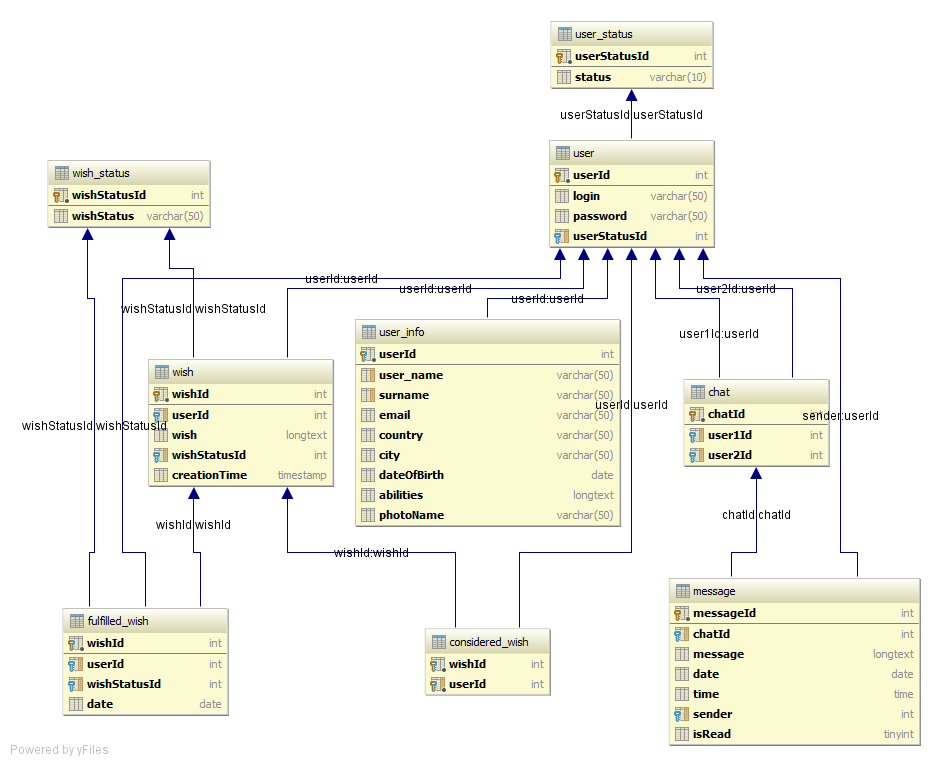
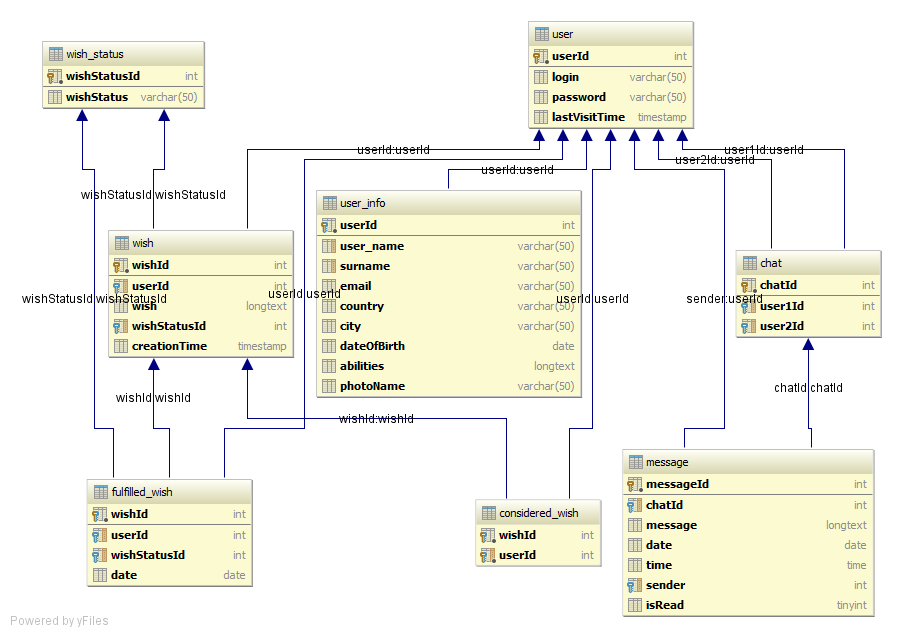
Add defining of online status

diff --git a/web/js/script.js b/web/js/script.js
@@ -514,6 +514,14 @@ function displayWishesTable(currentUserId) {
 
 }
 
+function updateTime() {
+    setInterval(function() {
+        var xmlhttp = new XMLHttpRequest();
+        xmlhttp.open("POST", "updateVisitTime");
+        xmlhttp.send();
+    }, 600000);
+}
+
 
 
 

diff --git a/web/css/style.css b/web/css/style.css
@@ -399,7 +399,6 @@ nav.menu li a.messages {
     font-size: 18px;
 }
 .abilitiesBlock {
-    float: left;
     width: 100%;
     margin-top: -20px;
 }

diff --git a/src/com/shooting_stars/project/dao/UserDAO.java b/src/com/shooting_stars/project/dao/UserDAO.java
@@ -4,13 +4,13 @@ import com.shooting_stars.project.entity.User;
 import com.shooting_stars.project.entity.UserInfo;
 import com.shooting_stars.project.entity.UserToBeRegistered;
 import com.shooting_stars.project.exception.DAOException;
-import java.sql.Connection;
-import java.sql.PreparedStatement;
-import java.sql.ResultSet;
-import java.sql.SQLException;
+
+import java.sql.*;
 import java.util.ArrayList;
 
 public class UserDAO extends AbstractDAO {
+    public static final String SQL_UPDATE_VISIT_TIME = "UPDATE user SET lastVisitTime = ? WHERE userId = ?";
+    public static final String SQL_SELECT_VISIT_TIME = "SELECT lastVisitTime FROM user WHERE userId = ?";
     public static final String SQL_FIND_USER = "SELECT userId FROM user WHERE login = ? and password = ?";
     public static final String SQL_INSERT_USER = "INSERT INTO user (login, password) VALUES (?,?)";
     public static final String SQL_INSERT_USER_INFO =
@@ -18,8 +18,6 @@ public class UserDAO extends AbstractDAO {
     public static final String SQL_CHECK_LOGIN_EXISTENCE = "SELECT COUNT(login) FROM user WHERE login = ?";
     public static final  String SQL_UPDATE_PHOTO_NAME = "UPDATE user_info SET photoName = ? WHERE userId = ?";
     public static final String SQL_SELECT_USER_INFO = "SELECT * FROM user_info WHERE userId = ?";
-    public static final String SQL_GET_STATUS = "SELECT status FROM user_status JOIN user ON user.userStatusId = user_status.userStatusId WHERE user.userId = ?";
-    public static final String SQL_SET_STATUS = "UPDATE user SET userStatusId = ? WHERE userId = ?";
     public static final String SQL_UPDATE_USER_INFO =
             "UPDATE user_info SET user_name = ?, surname = ?, country = ?, city = ?, dateOfBirth = ? WHERE userId = ?";
     public static final String SQL_SELECT_ABILITIES = "SELECT abilities FROM user_info WHERE userId = ?";
@@ -159,41 +157,6 @@ public class UserDAO extends AbstractDAO {
         return userInfo;
     }
 
-    public String getUserStatus(int userId) throws DAOException {
-        PreparedStatement ps = null;
-        ResultSet rs;
-        String status = "";
-        try {
-            ps = connection.prepareStatement(SQL_GET_STATUS);
-            ps.setInt(1, userId);
-            rs = ps.executeQuery();
-            if(rs.next()) {
-               status = rs.getString(1);
-            }
-        } catch (SQLException e) {
-            throw new DAOException("SQL exception (request or table failed): ", e);
-        }
-        finally {
-            close(ps);
-        }
-        return status;
-    }
-
-    public void setUserStatus(int userId, int userStatusId) throws DAOException {
-        PreparedStatement ps = null;
-        try {
-            ps = connection.prepareStatement(SQL_SET_STATUS);
-            ps.setInt(1, userStatusId);
-            ps.setInt(2, userId);
-            ps.executeUpdate();
-        } catch (SQLException e) {
-            throw new DAOException("SQL exception (request or table failed): ", e);
-        }
-        finally {
-            close(ps);
-        }
-    }
-
     public void updateUserInfo(int userId, UserInfo userInfo) throws DAOException {
         PreparedStatement ps = null;
         try {
@@ -324,6 +287,40 @@ public class UserDAO extends AbstractDAO {
             }
             return email;
 
+        } catch (SQLException e) {
+            throw new DAOException("SQL exception (request or table failed): ", e);
+        }
+        finally {
+            close(ps);
+        }
+    }
+
+    public Timestamp getVisitTime(int userId) throws DAOException {
+        PreparedStatement ps = null;
+        ResultSet rs;
+        Timestamp time = null;
+        try {
+            ps = connection.prepareStatement(SQL_SELECT_VISIT_TIME);
+            ps.setInt(1,userId);
+            rs = ps.executeQuery();
+            if(rs.next()) {
+                time = rs.getTimestamp(1);
+            }
+        } catch (SQLException e) {
+            throw new DAOException("SQL exception (request or table failed): ", e);
+        }
+        finally {
+            close(ps);
+        }
+        return time;
+    }
+    public void updateVisitTime(int userId, Timestamp time) throws DAOException {
+        PreparedStatement ps = null;
+        try {
+            ps = connection.prepareStatement(SQL_UPDATE_VISIT_TIME);
+            ps.setTimestamp(1,time);
+            ps.setInt(2, userId);
+            ps.executeUpdate();
         } catch (SQLException e) {
             throw new DAOException("SQL exception (request or table failed): ", e);
         }

diff --git a/src/com/shooting_stars/project/logic/UserLogic.java b/src/com/shooting_stars/project/logic/UserLogic.java
@@ -15,9 +15,16 @@ import java.io.File;
 import java.io.FileFilter;
 import java.io.IOException;
 import java.sql.Connection;
+import java.sql.Timestamp;
+import java.time.LocalDateTime;
 import java.util.regex.Pattern;
 
 public class UserLogic {
+
+    private static final String STATUS_ONLINE = "online";
+    private static final String STATUS_OFFLINE = "offline";
+    private static final int STATUS_TIMEOUT = 600000;
+
     public static UserInfo getUserInfo(int userId) throws LogicException {
         Connection connection = null;
         try {
@@ -83,7 +90,14 @@ public class UserLogic {
         try {
             connection = Pool.getPool().getConnection();
             UserDAO userDAO = new UserDAO(connection);
-            String status = userDAO.getUserStatus(userId);
+            String status;
+            Timestamp userLastVisitTime = userDAO.getVisitTime(userId);
+            long difference = Timestamp.valueOf(LocalDateTime.now()).getTime() - userLastVisitTime.getTime();
+            if( difference <= STATUS_TIMEOUT) {
+                status = STATUS_ONLINE;
+            } else {
+                status = STATUS_OFFLINE;
+            }
             return status;
         }  catch(PoolConnectionException | DAOException e ) {
             throw new LogicException(e.getCause());
@@ -92,12 +106,13 @@ public class UserLogic {
         }
     }
 
-    public static void setUserStatus(int userId, int userStatusId) throws LogicException {
+    public static void updateVisitTime(int userId) throws LogicException {
         Connection connection = null;
         try {
             connection = Pool.getPool().getConnection();
             UserDAO userDAO = new UserDAO(connection);
-            userDAO.setUserStatus(userId, userStatusId);
+            Timestamp currentTime = Timestamp.valueOf(LocalDateTime.now());
+            userDAO.updateVisitTime(userId,currentTime);
         }  catch(PoolConnectionException | DAOException e ) {
             throw new LogicException(e.getCause());
         }  finally {
@@ -183,6 +198,7 @@ public class UserLogic {
             Pool.getPool().returnConnection(connection);
         }
     }
+
     public static String getEmail(int userId) throws LogicException {
         Connection connection = null;
         try {
@@ -196,4 +212,6 @@ public class UserLogic {
             Pool.getPool().returnConnection(connection);
         }
     }
+
+
 }

diff --git a/src/com/shooting_stars/project/command/UpdateVisitTimeCommand.java b/src/com/shooting_stars/project/command/UpdateVisitTimeCommand.java
@@ -1,0 +1,22 @@
+package com.shooting_stars.project.command;
+
+import com.shooting_stars.project.exception.CommandException;
+import com.shooting_stars.project.exception.LogicException;
+import com.shooting_stars.project.logic.UserLogic;
+
+public class UpdateVisitTimeCommand extends SessionAwareCommand {
+
+    @Override
+    public String execute() {
+        String result = SUCCESS;
+        try {
+            int currentUserId = getCurrentUserId();
+            UserLogic.updateVisitTime(currentUserId);
+        } catch (LogicException e) {
+            LOG.error(e.getMessage(), e.getCause());
+            exception =  new CommandException(e.getCause());
+            result = ERROR;
+        }
+        return result;
+        }
+}

diff --git a/src/com/shooting_stars/project/command/FormUserPageCommand.java b/src/com/shooting_stars/project/command/FormUserPageCommand.java
@@ -61,12 +61,11 @@ public class FormUserPageCommand extends SessionAwareCommand implements ServletR
             int currentUserId = getCurrentUserId();
             if(request.getParameter("userId") == null) {
                     userId = currentUserId;
-                    UserLogic.setUserStatus(userId,1);
-
             }
             if (userId == currentUserId) {
                 result = USER;
                 wishesCount = WishLogic.getCurrentWishesAmount(userId);
+                UserLogic.updateVisitTime(currentUserId);
             }
             userInfo = UserLogic.getUserInfo(userId);
             //wishes = WishLogic.getAllWishes(userId);
